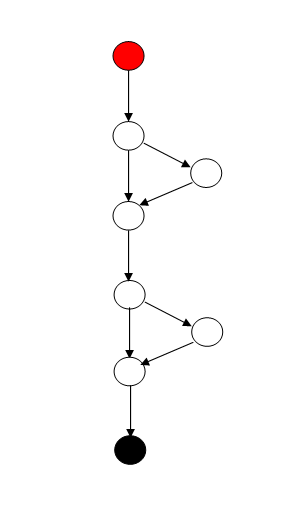
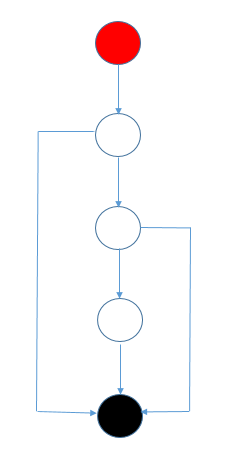
Teacher's comment #2 #3 #4

diff --git a/src/test/java/ru/netology/domain/RadioTest.java b/src/test/java/ru/netology/domain/RadioTest.java
@@ -1,130 +1,111 @@
 package ru.netology.domain;
 
 import org.junit.jupiter.api.Test;
-import org.junit.jupiter.params.ParameterizedTest;
-import org.junit.jupiter.params.provider.CsvSource;
-
-import java.util.Random;
 
 import static org.junit.jupiter.api.Assertions.*;
 
 class RadioTest {
+    @Test
+    void shouldInvalidMaxSetCurrentVolume() {
+        Radio radio = new Radio();
+        // Запомнить текущую громкость
+        int expected = radio.getCurrentVolume();
+        // Установить значение громкости больше максимальной
+        radio.setCurrentVolume(11);
+        // Проверить, что текущая громкость не изменилась
+        assertEquals(expected, radio.getCurrentVolume());
+    }
 
-    void selectRandomStation(Radio radio) {
+    @Test
+    void shouldInvalidMinSetCurrentVolume() {
+        Radio radio = new Radio();
+        // Запомнить текущую громкость
+        int expected = radio.getCurrentVolume();
+        // Установить значение громкости больше максимальной
+        radio.setCurrentVolume(-1);
+        // Проверить, что текущая громкость не изменилась
+        assertEquals(expected, radio.getCurrentVolume());
+    }
 
-        Random random = new Random();
-        // Выбираем случайную станцию из диапазона 0..10
-        radio.setCurrentStation(random.nextInt(10));
+    @Test
+    void shouldIncreaseCurrentVolume() {
+        Radio radio = new Radio();
+        // Установить текущую громкость
+        radio.setCurrentVolume(9);
+        // Нажимать кнопку увеличения громкости 2 раза
+        radio.increaseCurrentVolume();
+        radio.increaseCurrentVolume();
+        // Проверить, что громкость равна максимально возможной
+        assertEquals(radio.getMaxVolume(), radio.getCurrentVolume());
+    }
+
+    @Test
+    void shouldDecreaseCurrentVolume() {
+        Radio radio = new Radio();
+        // Установить текущую громкость
+        radio.setCurrentVolume(1);
+        // Нажимать кнопку уменьшения громкости 2 раза
+        radio.decreaseCurrentVolume();
+        radio.decreaseCurrentVolume();
+        // Проверить, что громкость равна минимально возможной
+        assertEquals(radio.getMinVolume(), radio.getCurrentVolume());
     }
 
     @Test
     void shouldSetCurrentStation() {
-
         Radio radio = new Radio();
-
-        Random random = new Random();
-
-        // Клиент должен иметь возможность выставлять номер
-        // радиостанции с цифрового пульта (вводя числа 0 - 9)
-        int expected = random.nextInt(10);
-
+        int expected = 5;
+        // Установить станцию 5
         radio.setCurrentStation(expected);
-
+        // Проверить, что станция 5 теперь текущая
         assertEquals(expected, radio.getCurrentStation());
-
     }
 
-    @ParameterizedTest
-    @CsvSource({"14"})
-    void shouldIncreaseCurrentVolume(int countClick) {
-
+    @Test
+    void shouldInvalidMinSetCurrentStation() {
         Radio radio = new Radio();
-
-        // Нажимаем кнопку увеличения громкости
-        for (int i = 0; i < countClick; i++) {
-            radio.increaseCurrentVolume();
-        }
-
-        assertEquals(radio.getMaxVolume(), radio.getCurrentVolume());
-    }
-
-    @ParameterizedTest
-    @CsvSource({"20"})
-    void shouldDecreaseCurrentVolume(int countClick) {
-
-        Radio radio = new Radio();
-
-        // Нажимаем 20 раз кнопку уменьшения громкости
-        for (int i = 0; i < countClick; i++) {
-            radio.decreaseCurrentVolume();
-        }
-
-        assertEquals(radio.getMinVolume(), radio.getCurrentVolume());
-    }
-
-    @ParameterizedTest
-    @CsvSource({"14,false"})
-        //Количество начатий на кнопу next
-    void shouldNextRadioStation(int countClick, boolean randomStartStation) {
-
-        Radio radio = new Radio();
-
-        if (randomStartStation) {
-            // Выбираем случайную станцию
-            selectRandomStation(radio);
-        } else {
-            // Выбираем станцию 6
-            radio.setCurrentStation(6);
-        }
-
-        int countStation = radio.getMaxStation() - radio.getMinStation();
-        countStation += 1; //zero based
-
-        // Вычисляем ожидаемый результат
-        int expected = countClick % countStation + radio.getCurrentStation();
-        if (expected >= countStation) {
-            expected = expected % countStation;
-        }
-
-        // Нажимаем кнопку next countClick раз
-        for (int i = 0; i < countClick; i++) {
-            radio.nextStation();
-        }
-
+        int expected = radio.getCurrentStation();
+        // Установить станцию меньше минимальной
+        radio.setCurrentStation(-1);
+        // Проверить, что текущая станция не изменилась
         assertEquals(expected, radio.getCurrentStation());
-
     }
 
-    @ParameterizedTest
-    @CsvSource({"14,false"})
-        //Количество начатий на кнопу next
-    void shouldPrevRadioStation(int countClick, boolean randomStartStation) {
+    @Test
+    void shouldInvalidMaxSetCurrentStation() {
         Radio radio = new Radio();
-
-        if (randomStartStation) {
-            // Выбираем случайную станцию
-            selectRandomStation(radio);
-        } else {
-            // Выбираем станцию 7
-            radio.setCurrentStation(7);
-        }
-
-        int countStation = radio.getMaxStation() - radio.getMinStation();
-        countStation += 1; //zero based
-
-        // Вычисляем ожидаемый результат
-        int expected = radio.getCurrentStation() - (countClick % countStation);
-        if (expected < radio.getMinStation()) {
-            expected += countStation;
-        }
-
-        // Нажимаем кнопку next countClick раз
-        for (int i = 0; i < countClick; i++) {
-            radio.prevStation();
-        }
-
+        int expected = radio.getCurrentStation();
+        // Установить станцию больше максимальной
+        radio.setCurrentStation(10);
+        // Проверить, что текущая станция не изменилась
         assertEquals(expected, radio.getCurrentStation());
-
     }
 
+    @Test
+    void shouldNextRadioStation() {
+        Radio radio = new Radio();
+        // Установить станцию 8
+        radio.setCurrentStation(8);
+        // Нажать 2 раза next
+        radio.nextStation();
+        radio.nextStation();
+        // Ожидаемый результат
+        int expected = 0;
+        // Проверить, что станция 0 теперь текущая
+        assertEquals(expected, radio.getCurrentStation());
+    }
+
+    @Test
+    void shouldPrevRadioStation() {
+        Radio radio = new Radio();
+        // Установить станцию 1
+        radio.setCurrentStation(1);
+        // Нажать 2 раза prev
+        radio.prevStation();
+        radio.prevStation();
+        // Ожидаемый результат
+        int expected = 9;
+        // Проверить, что станция 9 теперь текущая
+        assertEquals(expected, radio.getCurrentStation());
+    }
 }

diff --git a/src/main/java/ru/netology/domain/Radio.java b/src/main/java/ru/netology/domain/Radio.java
@@ -28,46 +28,51 @@ public class Radio {
         return currentStation;
     }
 
+    public int getCurrentVolume() {
+        return currentVolume;
+    }
+
     public void setCurrentStation(int currentStation) {
         if (currentStation > maxStation) {
             return;
         }
         if (currentStation < minStation) {
-           return;
+            return;
         }
         this.currentStation = currentStation;
     }
 
-    public int getCurrentVolume() {
-        return currentVolume;
-    }
-
     public void setCurrentVolume(int currentVolume) {
-        if (currentVolume > maxVolume || currentVolume < minVolume) {
+        if (currentVolume > maxVolume) {
+            return;
+        }
+        if (currentVolume < minVolume) {
             return;
         }
         this.currentVolume = currentVolume;
     }
 
     public void increaseCurrentVolume() {
-        int incVolume = getCurrentVolume() + 1;
-        setCurrentVolume(incVolume);
+        if (currentVolume < maxVolume) currentVolume++;
     }
 
     public void decreaseCurrentVolume() {
-        int decVolume = getCurrentVolume() - 1;
-        setCurrentVolume(decVolume);
+        if (currentVolume > minVolume) currentVolume--;
     }
 
     public void nextStation() {
-        int nextStation = getCurrentStation() + 1;
-        //currentStation = currentStation - maxStation - 1;
-        setCurrentStation(nextStation);
+        if (currentStation == maxStation) {
+            currentStation = minStation;
+            return;
+        }
+        currentStation++;
     }
 
     public void prevStation() {
-        int prevStation = getCurrentStation() - 1;
-        //currentStation = maxStation + currentStation + 1;
-        setCurrentStation(prevStation);
+        if (currentStation == minStation) {
+            currentStation = maxStation;
+            return;
+        }
+        currentStation--;
     }
 }

diff --git a/README.md b/README.md
@@ -22,15 +22,16 @@
  
  ## Управляющий граф для ```setCurrentStation```
  
- ![УГП](UGP.png)
+ ![УГП](ugp.png)
+ 
  
  ## 1. Расчет цикломатической сложности
  
-    * Количество ребер (E): 9
-    * Количество узлов (N): 8
+    * Количество ребер (E): 6
+    * Количество узлов (N): 5
     * Количество компонент связности (P): 1
 
-    M = E - N + 2P = 9 - 8 + 2 * 1 = 3
+    M = E - N + 2P = 6 - 5 + 2 * 1 = 3
     
     Такой же результат получен JaCoCO
     
